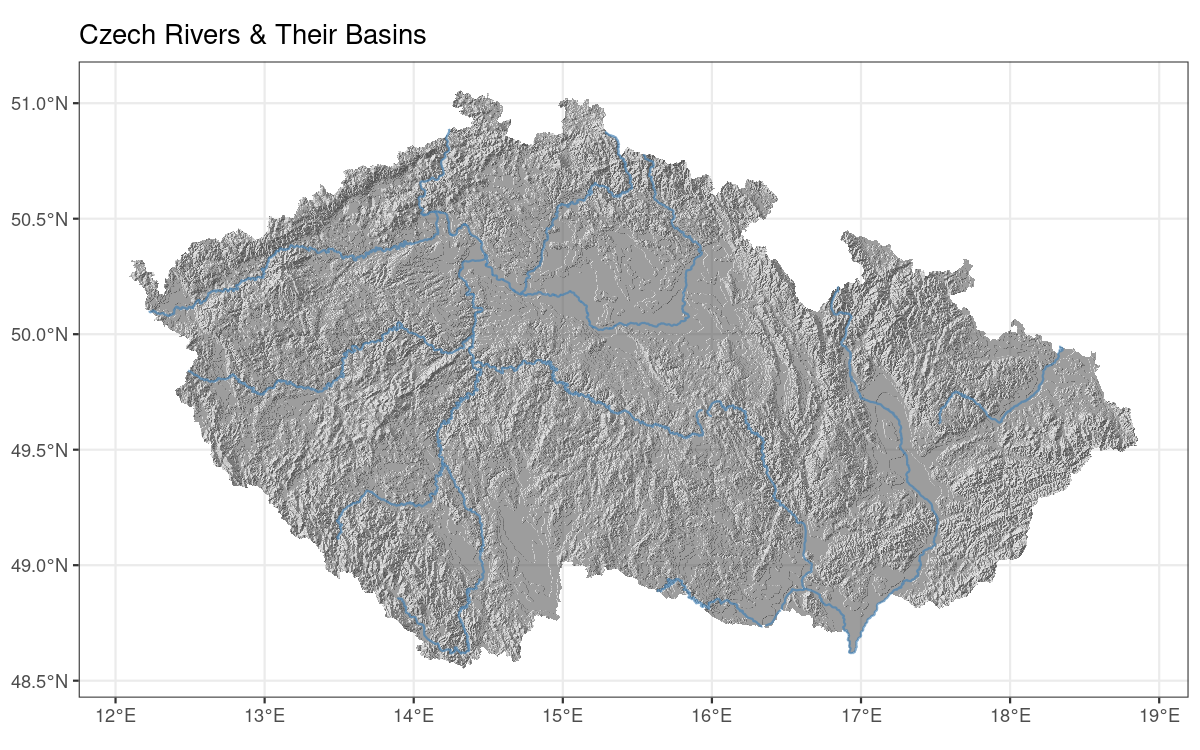
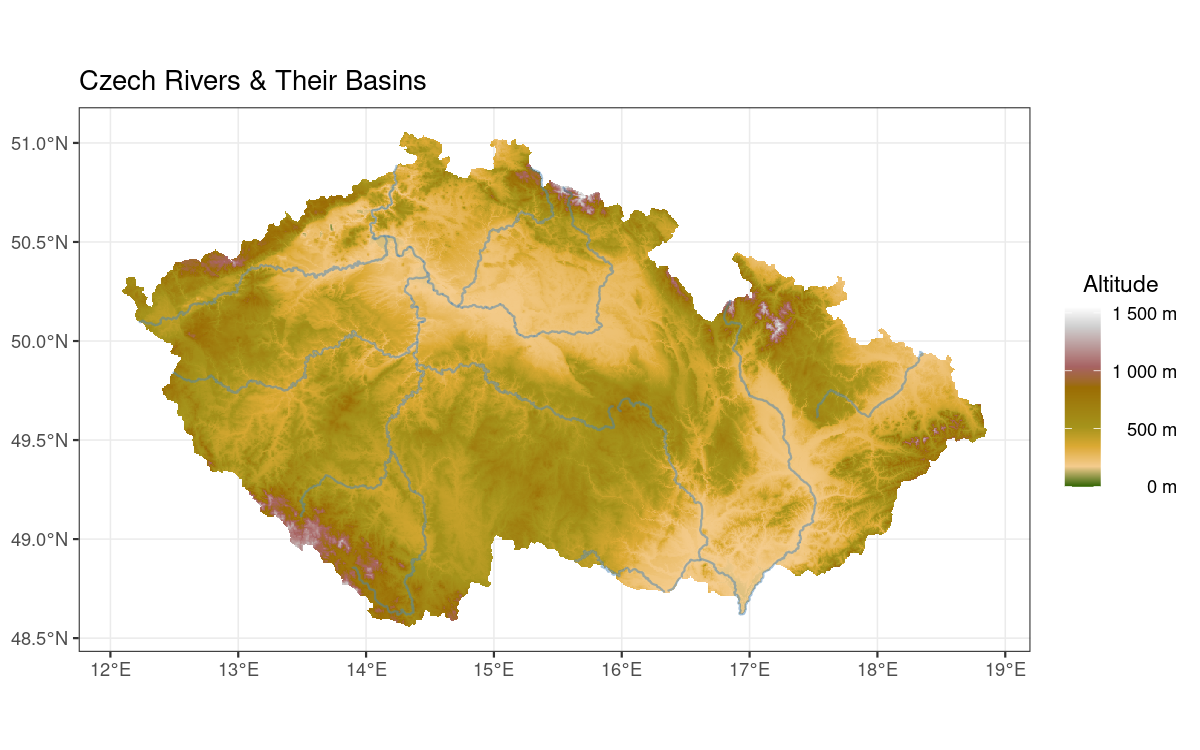
rayshaded >> actual reliéf

diff --git a/joss-paper/paper.md b/joss-paper/paper.md
@@ -108,19 +108,23 @@ ggplot(data = okresni_data) +
 Relief of the Czech Republic, accessed via `RCzechia::vyskopis()` call and displayed using `ggplot2` together with major rivers `RCzechia::reky()` for context.
 
 ``` r
-relief <- RCzechia::vyskopis("rayshaded") %>%
-  as("SpatialPixelsDataFrame") %>%
-  as_tibble()
+# terrain cropped to "Czechia proper"
+relief <- vyskopis("actual", cropped = TRUE)
 
-# report results
 ggplot() +
-  geom_raster(data = relief, aes(x = x, y  = y, alpha = -raytraced),
-              fill = "gray30",  show.legend = F) +
-  geom_sf(data = subset(RCzechia::reky(), Major == T),
-          color = "steelblue", alpha = .7) +
-  labs(title = "Czech Rivers & Their Basins") +
+  tidyterra::geom_spatraster(data = relief) +
+  geom_sf(data = subset(RCzechia::reky(), Major == T), # major rivers
+          color = "steelblue", alpha = .5) +
+  scale_fill_gradientn(colors = hypso.colors2(10),
+                       labels = scales::label_number(suffix = " m"),
+                       limits = c(0, 1550),
+                       na.value = NA) +
+  labs(title = "Czech Rivers & Their Basins",
+       fill = "Altitude") +
   theme_bw() +
-  theme(axis.title = element_blank())
+  theme(axis.title = element_blank(),
+        legend.text.align = 1,
+        legend.title.align = 0.5)
 ```
 
 <center>
